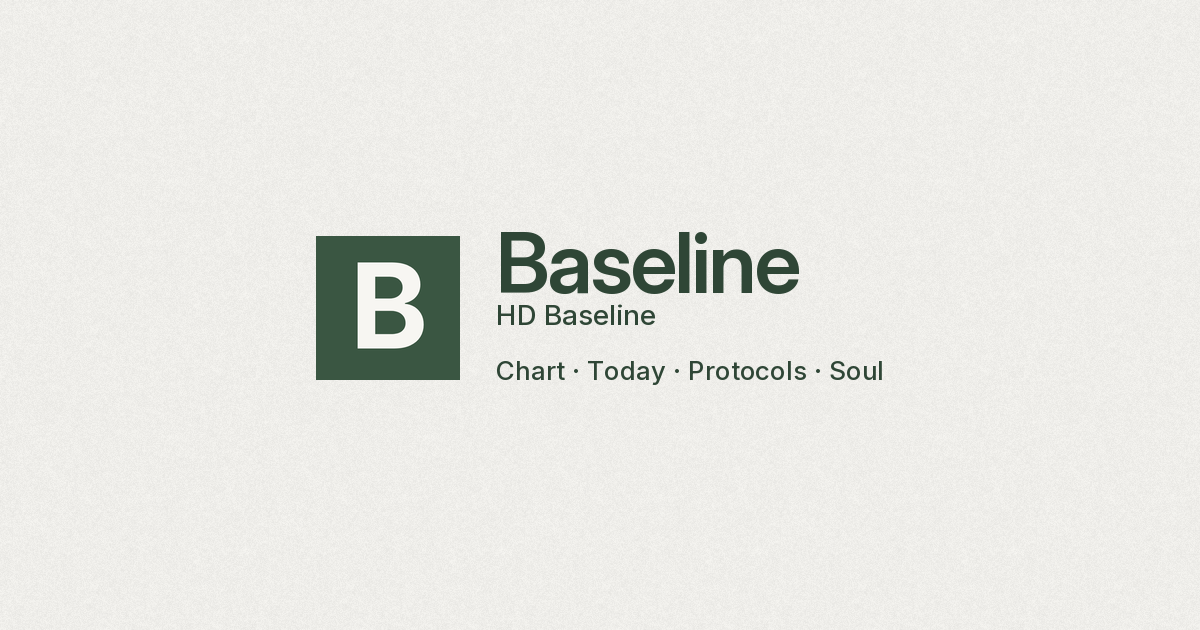
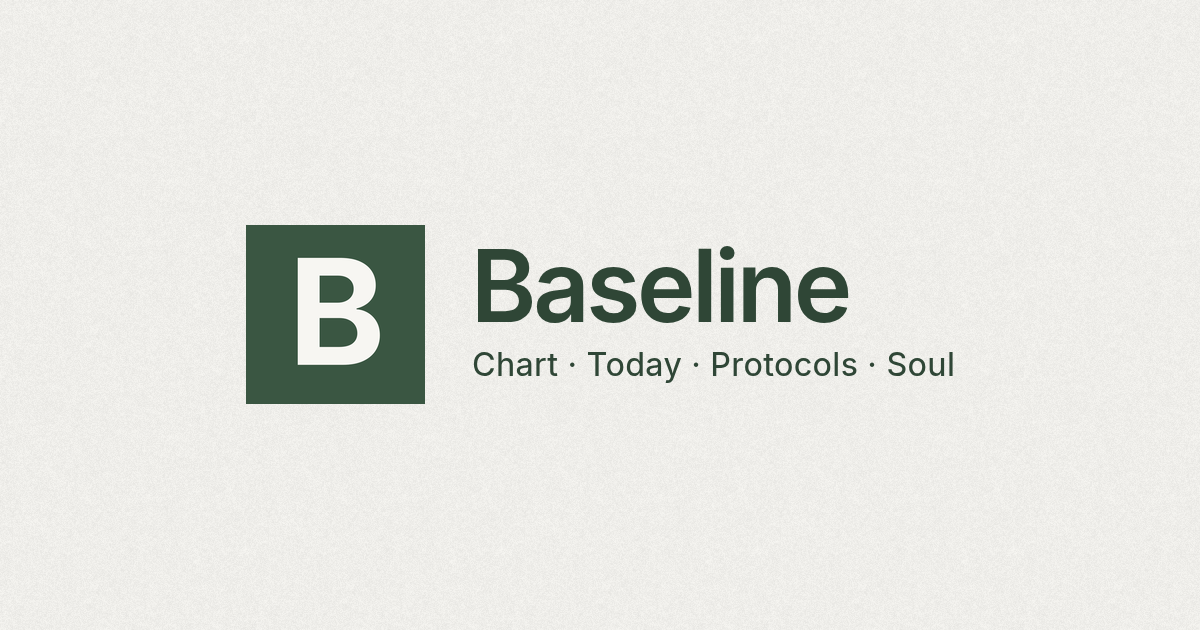
Tighter OG / share card: drop HD Baseline from the image, larger lockup
Replace the 1200×630 share / Open Graph card with a native Inter + Growth B
render that matches the locked tighter mock: no second product name on the
image, larger lockup, same linen editorial ground. layout.tsx metadata is
unchanged. Optional color pin and offline generator only.

Changed region(s): [[0.185, 0.3317, 0.8017, 0.6635]]

diff --git a/frontend/scripts/generate-og-share-card.py b/frontend/scripts/generate-og-share-card.py
@@ -1,0 +1,207 @@
+#!/usr/bin/env python3
+"""Optional, offline generator for frontend/public/og/share-1200x630.png.
+
+Not a required runtime or CI step. Rebuilds the tighter Baseline share / Open
+Graph card at 1200×630 from Inter and the shipped Growth B mark (icon.svg),
+with the same linen + paper-grain language as the live #129 card.
+
+Requires (box-local): Python 3 with Pillow and NumPy, Google Chrome, and
+the Inter variable font used below.
+"""
+from __future__ import annotations
+
+import subprocess
+import sys
+from pathlib import Path
+
+import numpy as np
+from PIL import Image
+
+ROOT = Path(__file__).resolve().parents[2]
+FRONTEND = Path(__file__).resolve().parents[1]
+FONT = Path("/usr/share/fonts/truetype/sand-box/google/Inter/Inter-VariableFont_opsz,wght.ttf")
+ICON_SVG = FRONTEND / "src/app/icon.svg"
+GRAIN_PNG = FRONTEND / "public/paper-grain.png"
+OUT_PNG = FRONTEND / "public/og/share-1200x630.png"
+WORK = Path("/tmp/og-share-card-gen")
+
+LINEN = (247, 246, 242)  # #f7f6f2
+INK = (47, 70, 54)  # #2f4636
+W, H = 1200, 630
+
+# Locked mock composition (badge 24.3% larger than the #129 144px mark).
+BADGE_SIZE = 179
+BADGE_XY = (246, 225)
+GRAIN_ALPHA = 0.074  # multiply over linen, 256px tile — matches the #129 card
+
+WORDMARK = "Baseline"
+FEATURES = "Chart · Today · Protocols · Soul"
+
+# Live #129 typography, scaled by 179/144. Wordmark is Inter semibold, tight
+# tracking. The feature line is a smaller, lighter cut of Inter.
+WORDMARK_SIZE = "calc(80px * 179 / 144)"
+WORDMARK_TRACK = "-0.03em"
+WORDMARK_WGHT = 600
+WORDMARK_OPSZ = 18
+WORDMARK_INK = (478, 246)  # ink-bbox top-left on the locked mock
+
+FEATURES_SIZE = "calc(26px * 179 / 144)"
+FEATURES_TRACK = "0.01em"
+FEATURES_WGHT = 450
+FEATURES_OPSZ = 14
+FEATURES_INK = (473, 352)
+
+
+def chrome_shot(html: str, name: str, width: int, height: int) -> Image.Image:
+    WORK.mkdir(parents=True, exist_ok=True)
+    hp = WORK / f"{name}.html"
+    sp = WORK / f"{name}.png"
+    hp.write_text(html)
+    cmd = [
+        "google-chrome",
+        "--headless=new",
+        "--disable-gpu",
+        "--no-sandbox",
+        "--hide-scrollbars",
+        "--force-device-scale-factor=1",
+        f"--window-size={width},{height}",
+        "--default-background-color=00000000",
+        f"--screenshot={sp}",
+        f"file://{hp}",
+    ]
+    subprocess.run(cmd, check=True, stdout=subprocess.DEVNULL, stderr=subprocess.PIPE)
+    im = Image.open(sp)
+    if im.size != (width, height):
+        if im.size[0] >= width and im.size[1] >= height:
+            im = im.crop((0, 0, width, height))
+        else:
+            im = im.resize((width, height), Image.Resampling.LANCZOS)
+    return im
+
+
+def render_badge(size: int) -> Image.Image:
+    """Same Growth B path as icon.svg; 8× Chrome render, Lanczos down (as #129)."""
+    svg = ICON_SVG.read_text()
+    hi = size * 8
+    html = f"""<!doctype html>
+<meta charset="utf-8">
+<style>
+  html,body{{margin:0;padding:0;width:{hi}px;height:{hi}px;background:#3a5642;overflow:hidden;}}
+  svg{{display:block;width:{hi}px;height:{hi}px;}}
+</style>
+{svg}
+"""
+    shot = chrome_shot(html, f"badge-hi-{hi}", hi, hi).convert("RGB")
+    return shot.resize((size, size), Image.Resampling.LANCZOS)
+
+
+def render_text(text: str, size_css: str, tracking: str, wght: int, opsz: int, name: str) -> Image.Image:
+    cw, ch = 900, 200
+    html = f"""<!doctype html>
+<meta charset="utf-8">
+<style>
+@font-face {{
+  font-family: InterVar;
+  src: url("file://{FONT}") format("truetype");
+  font-weight: 100 900;
+  font-style: normal;
+  font-display: block;
+}}
+html,body {{
+  margin:0; padding:0; width:{cw}px; height:{ch}px;
+  background:transparent; overflow:hidden;
+}}
+.t {{
+  position:absolute; left:16px; top:24px;
+  color:#2f4636;
+  font-family: InterVar, Inter, sans-serif;
+  font-weight: {wght};
+  font-size: {size_css};
+  letter-spacing: {tracking};
+  font-optical-sizing: none;
+  font-variation-settings: "wght" {wght}, "opsz" {opsz};
+  line-height: 1;
+  white-space: nowrap;
+}}
+</style>
+<div class="t">{text}</div>
+"""
+    return chrome_shot(html, name, cw, ch)
+
+
+def linen_grain() -> Image.Image:
+    grain = np.array(Image.open(GRAIN_PNG).convert("L"))
+    gh, gw = grain.shape
+    ys = (np.arange(H) % gh)[:, None]
+    xs = (np.arange(W) % gw)[None, :]
+    g = grain[ys, xs].astype(np.float64)
+    linen = np.array(LINEN, dtype=np.float64)
+    a = GRAIN_ALPHA
+    pred = linen * (1 - a + a * (g / 255.0))[:, :, None]
+    pred = np.clip(np.round(pred), 0, 255).astype(np.uint8)
+    return Image.fromarray(pred, "RGB")
+
+
+def ink_bbox(im: Image.Image, thr: int = 160):
+    arr = np.array(im.convert("RGBA") if im.mode == "RGBA" else im.convert("RGB"))
+    if arr.shape[2] == 4:
+        a = arr[:, :, 3]
+        lum = arr[:, :, :3].mean(-1)
+        mask = (a > 8) & (lum < thr)
+    else:
+        lum = arr.mean(-1)
+        mask = lum < thr
+    ys, xs = np.where(mask)
+    if len(xs) == 0:
+        return None, arr
+    return (int(xs.min()), int(ys.min()), int(xs.max()), int(ys.max())), arr
+
+
+def composite_text(canvas: Image.Image, text_im: Image.Image, ink_target_xy: tuple[int, int]):
+    bbox, arr = ink_bbox(text_im)
+    if not bbox:
+        raise RuntimeError("no ink in text render")
+    x0, y0, x1, y1 = bbox
+    crop = arr[y0 : y1 + 1, x0 : x1 + 1]
+    tx, ty = ink_target_xy
+    canvas_arr = np.array(canvas.convert("RGB"))
+    th, tw = crop.shape[0], crop.shape[1]
+    dest = canvas_arr[ty : ty + th, tx : tx + tw].astype(np.float64)
+    if crop.shape[2] == 4:
+        rgb = crop[:, :, :3].astype(np.float64)
+        alpha = crop[:, :, 3].astype(np.float64) / 255.0
+        out = (1 - alpha[:, :, None]) * dest + alpha[:, :, None] * rgb
+    else:
+        linen = np.array(LINEN, dtype=np.float64)
+        ink = np.array(INK, dtype=np.float64)
+        rgb = crop.astype(np.float64)
+        denom = np.where(np.abs(linen - ink) < 1e-6, 1, linen - ink)
+        a = np.clip(((linen - rgb) / denom).mean(-1), 0, 1)
+        out = (1 - a[:, :, None]) * dest + a[:, :, None] * ink
+    canvas_arr[ty : ty + th, tx : tx + tw] = np.clip(np.round(out), 0, 255).astype(np.uint8)
+    return Image.fromarray(canvas_arr, "RGB")
+
+
+def main() -> int:
+    if not FONT.is_file():
+        print(f"missing Inter variable font: {FONT}", file=sys.stderr)
+        return 1
+    if not ICON_SVG.is_file() or not GRAIN_PNG.is_file():
+        print("missing icon.svg or paper-grain.png", file=sys.stderr)
+        return 1
+    canvas = linen_grain()
+    canvas.paste(render_badge(BADGE_SIZE), BADGE_XY)
+    wm = render_text(WORDMARK, WORDMARK_SIZE, WORDMARK_TRACK, WORDMARK_WGHT, WORDMARK_OPSZ, "wm")
+    canvas = composite_text(canvas, wm, WORDMARK_INK)
+    ft = render_text(FEATURES, FEATURES_SIZE, FEATURES_TRACK, FEATURES_WGHT, FEATURES_OPSZ, "feat")
+    canvas = composite_text(canvas, ft, FEATURES_INK)
+    if canvas.size != (W, H) or canvas.mode != "RGB":
+        raise RuntimeError(f"expected {W}x{H} RGB, got {canvas.size} {canvas.mode}")
+    OUT_PNG.parent.mkdir(parents=True, exist_ok=True)
+    canvas.save(OUT_PNG, "PNG")
+    print(f"wrote {OUT_PNG.relative_to(ROOT)} ({W}x{H} {canvas.mode})")
+    return 0
+
+
+if __name__ == "__main__":
+    raise SystemExit(main())
